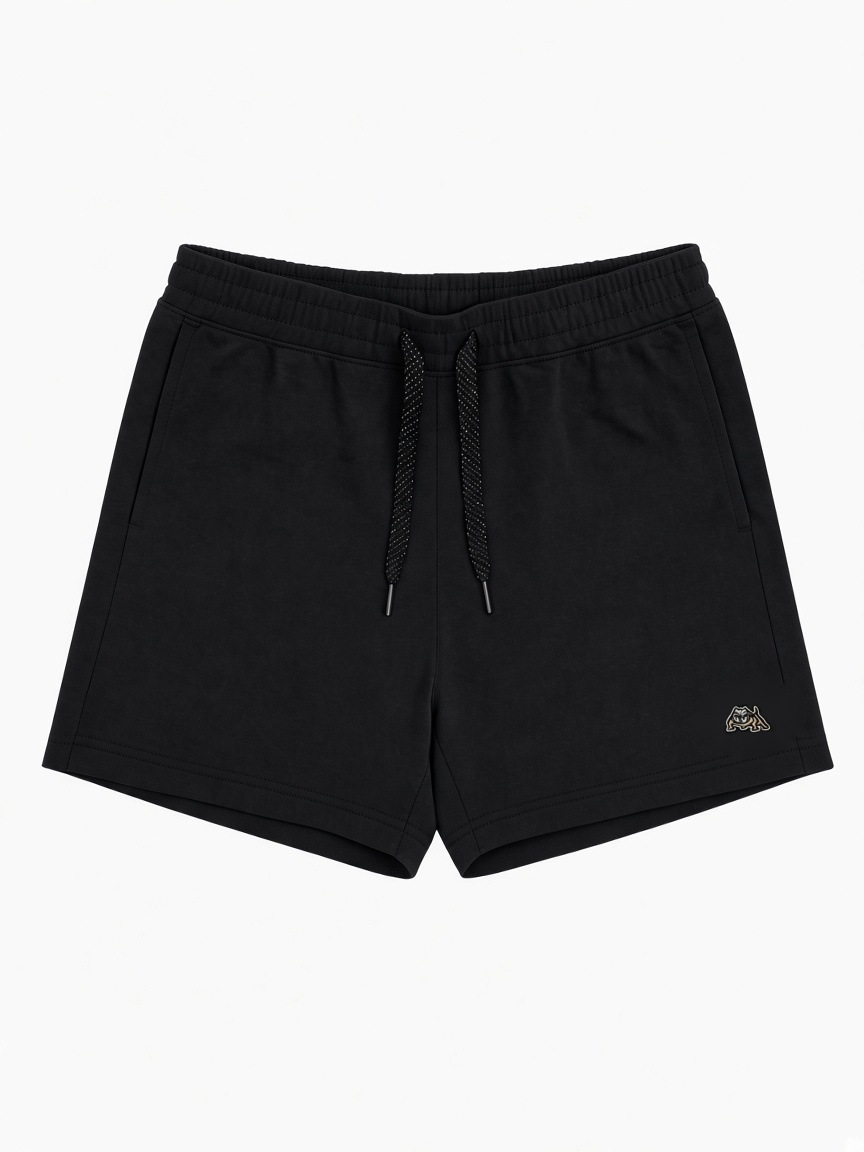
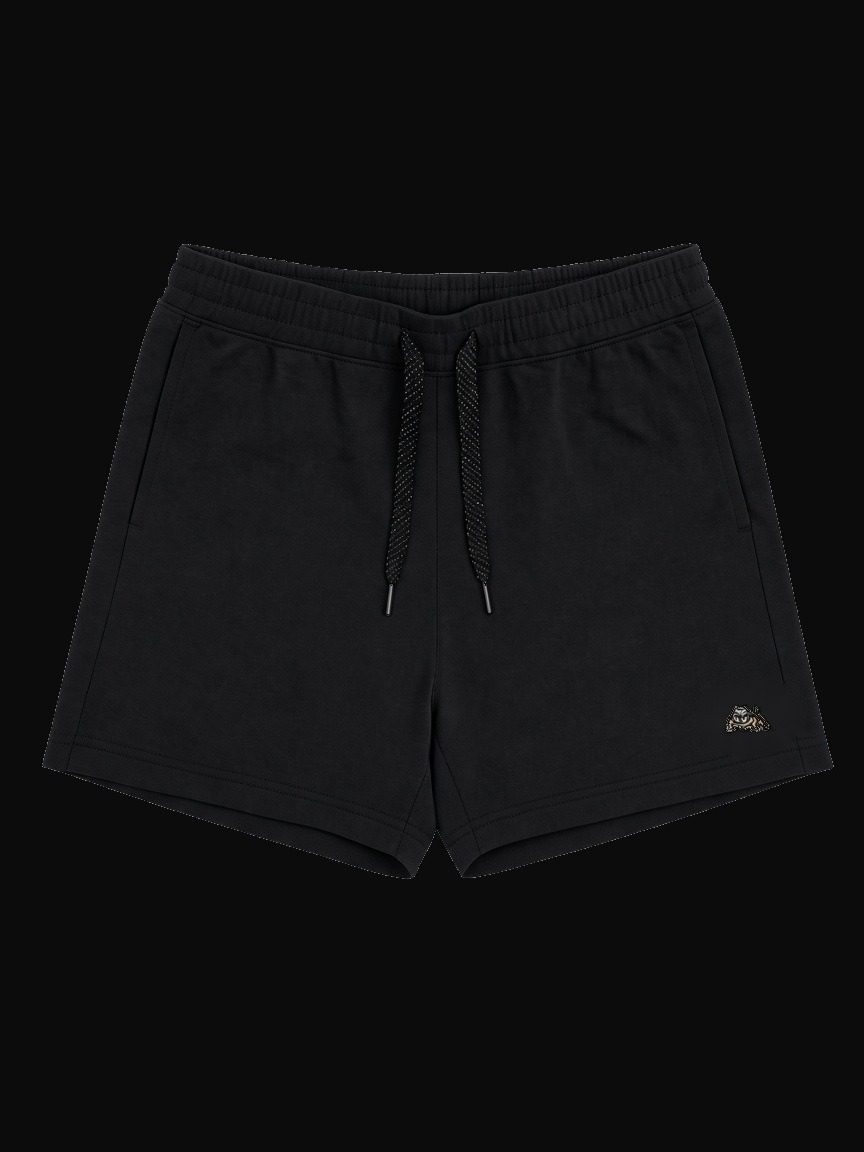
Remove cream photo mats from catalog frames and studio shots.
Darken --photo-well and drop media padding so contain letterboxing is black, not cream; replace white studio backgrounds on flats/mocks with site black and cache-bust assets.

diff --git a/collections.html b/collections.html
@@ -20,8 +20,8 @@
   <meta name="twitter:image" content="https://jimmythegod100.github.io/bvlly/images/og.jpg">
   <link rel="canonical" href="https://jimmythegod100.github.io/bvlly/collections.html">
   <link rel="icon" href="favicon.svg">
-  <link rel="stylesheet" href="css/brand.css?v=20260922r">
-  <link rel="stylesheet" href="css/main.css?v=20260922r">
+  <link rel="stylesheet" href="css/brand.css?v=20260922s">
+  <link rel="stylesheet" href="css/main.css?v=20260922s">
 </head>
 <body data-page="collections">
   <header class="site-header" data-site-header></header>
@@ -43,8 +43,8 @@
 
   <footer class="site-footer" data-site-footer></footer>
 
-  <script src="js/site-config.js?v=20260922r"></script>
-  <script src="js/catalog.js?v=20260922r"></script>
-  <script src="js/layout.js?v=20260922r"></script>
+  <script src="js/site-config.js?v=20260922s"></script>
+  <script src="js/catalog.js?v=20260922s"></script>
+  <script src="js/layout.js?v=20260922s"></script>
 </body>
 </html>

diff --git a/contact.html b/contact.html
@@ -20,8 +20,8 @@
   <meta name="twitter:image" content="https://jimmythegod100.github.io/bvlly/images/og.jpg">
   <link rel="canonical" href="https://jimmythegod100.github.io/bvlly/contact.html">
   <link rel="icon" href="favicon.svg">
-  <link rel="stylesheet" href="css/brand.css?v=20260922r">
-  <link rel="stylesheet" href="css/main.css?v=20260922r">
+  <link rel="stylesheet" href="css/brand.css?v=20260922s">
+  <link rel="stylesheet" href="css/main.css?v=20260922s">
 </head>
 <body data-page="contact">
   <header class="site-header" data-site-header></header>
@@ -79,8 +79,8 @@
 
   <footer class="site-footer" data-site-footer></footer>
 
-  <script src="js/site-config.js?v=20260922r"></script>
-  <script src="js/catalog.js?v=20260922r"></script>
-  <script src="js/layout.js?v=20260922r"></script>
+  <script src="js/site-config.js?v=20260922s"></script>
+  <script src="js/catalog.js?v=20260922s"></script>
+  <script src="js/layout.js?v=20260922s"></script>
 </body>
 </html>

diff --git a/privacy.html b/privacy.html
@@ -20,8 +20,8 @@
   <meta name="twitter:image" content="https://jimmythegod100.github.io/bvlly/images/og.jpg">
   <link rel="canonical" href="https://jimmythegod100.github.io/bvlly/privacy.html">
   <link rel="icon" href="favicon.svg">
-  <link rel="stylesheet" href="css/brand.css?v=20260922r">
-  <link rel="stylesheet" href="css/main.css?v=20260922r">
+  <link rel="stylesheet" href="css/brand.css?v=20260922s">
+  <link rel="stylesheet" href="css/main.css?v=20260922s">
 </head>
 <body data-page="privacy">
   <header class="site-header" data-site-header></header>
@@ -41,8 +41,8 @@
 
   <footer class="site-footer" data-site-footer></footer>
 
-  <script src="js/site-config.js?v=20260922r"></script>
-  <script src="js/catalog.js?v=20260922r"></script>
-  <script src="js/layout.js?v=20260922r"></script>
+  <script src="js/site-config.js?v=20260922s"></script>
+  <script src="js/catalog.js?v=20260922s"></script>
+  <script src="js/layout.js?v=20260922s"></script>
 </body>
 </html>

diff --git a/product.html b/product.html
@@ -20,8 +20,8 @@
   <meta name="twitter:image" content="https://jimmythegod100.github.io/bvlly/images/og.jpg">
   <link rel="canonical" href="https://jimmythegod100.github.io/bvlly/product.html">
   <link rel="icon" href="favicon.svg">
-  <link rel="stylesheet" href="css/brand.css?v=20260922r">
-  <link rel="stylesheet" href="css/main.css?v=20260922r">
+  <link rel="stylesheet" href="css/brand.css?v=20260922s">
+  <link rel="stylesheet" href="css/main.css?v=20260922s">
 </head>
 <body data-page="product">
   <header class="site-header" data-site-header></header>
@@ -34,8 +34,8 @@
 
   <footer class="site-footer" data-site-footer></footer>
 
-  <script src="js/site-config.js?v=20260922r"></script>
-  <script src="js/catalog.js?v=20260922r"></script>
-  <script src="js/layout.js?v=20260922r"></script>
+  <script src="js/site-config.js?v=20260922s"></script>
+  <script src="js/catalog.js?v=20260922s"></script>
+  <script src="js/layout.js?v=20260922s"></script>
 </body>
 </html>

diff --git a/thanks.html b/thanks.html
@@ -20,8 +20,8 @@
   <meta name="twitter:image" content="https://jimmythegod100.github.io/bvlly/images/og.jpg">
   <link rel="canonical" href="https://jimmythegod100.github.io/bvlly/thanks.html">
   <link rel="icon" href="favicon.svg">
-  <link rel="stylesheet" href="css/brand.css?v=20260922r">
-  <link rel="stylesheet" href="css/main.css?v=20260922r">
+  <link rel="stylesheet" href="css/brand.css?v=20260922s">
+  <link rel="stylesheet" href="css/main.css?v=20260922s">
 </head>
 <body data-page="thanks">
   <header class="site-header" data-site-header></header>
@@ -36,8 +36,8 @@
 
   <footer class="site-footer" data-site-footer></footer>
 
-  <script src="js/site-config.js?v=20260922r"></script>
-  <script src="js/catalog.js?v=20260922r"></script>
-  <script src="js/layout.js?v=20260922r"></script>
+  <script src="js/site-config.js?v=20260922s"></script>
+  <script src="js/catalog.js?v=20260922s"></script>
+  <script src="js/layout.js?v=20260922s"></script>
 </body>
 </html>

diff --git a/about.html b/about.html
@@ -20,8 +20,8 @@
   <meta name="twitter:image" content="https://jimmythegod100.github.io/bvlly/images/og.jpg">
   <link rel="canonical" href="https://jimmythegod100.github.io/bvlly/about.html">
   <link rel="icon" href="favicon.svg">
-  <link rel="stylesheet" href="css/brand.css?v=20260922r">
-  <link rel="stylesheet" href="css/main.css?v=20260922r">
+  <link rel="stylesheet" href="css/brand.css?v=20260922s">
+  <link rel="stylesheet" href="css/main.css?v=20260922s">
 </head>
 <body data-page="about">
   <header class="site-header" data-site-header></header>
@@ -41,8 +41,8 @@
 
   <footer class="site-footer" data-site-footer></footer>
 
-  <script src="js/site-config.js?v=20260922r"></script>
-  <script src="js/catalog.js?v=20260922r"></script>
-  <script src="js/layout.js?v=20260922r"></script>
+  <script src="js/site-config.js?v=20260922s"></script>
+  <script src="js/catalog.js?v=20260922s"></script>
+  <script src="js/layout.js?v=20260922s"></script>
 </body>
 </html>

diff --git a/shop.html b/shop.html
@@ -20,8 +20,8 @@
   <meta name="twitter:image" content="https://jimmythegod100.github.io/bvlly/images/og.jpg">
   <link rel="canonical" href="https://jimmythegod100.github.io/bvlly/shop.html">
   <link rel="icon" href="favicon.svg">
-  <link rel="stylesheet" href="css/brand.css?v=20260922r">
-  <link rel="stylesheet" href="css/main.css?v=20260922r">
+  <link rel="stylesheet" href="css/brand.css?v=20260922s">
+  <link rel="stylesheet" href="css/main.css?v=20260922s">
 </head>
 <body data-page="shop">
   <header class="site-header" data-site-header></header>
@@ -44,8 +44,8 @@
 
   <footer class="site-footer" data-site-footer></footer>
 
-  <script src="js/site-config.js?v=20260922r"></script>
-  <script src="js/catalog.js?v=20260922r"></script>
-  <script src="js/layout.js?v=20260922r"></script>
+  <script src="js/site-config.js?v=20260922s"></script>
+  <script src="js/catalog.js?v=20260922s"></script>
+  <script src="js/layout.js?v=20260922s"></script>
 </body>
 </html>

diff --git a/404.html b/404.html
@@ -20,8 +20,8 @@
   <meta name="twitter:image" content="https://jimmythegod100.github.io/bvlly/images/og.jpg">
   <link rel="canonical" href="https://jimmythegod100.github.io/bvlly/404.html">
   <link rel="icon" href="favicon.svg">
-  <link rel="stylesheet" href="css/brand.css?v=20260922r">
-  <link rel="stylesheet" href="css/main.css?v=20260922r">
+  <link rel="stylesheet" href="css/brand.css?v=20260922s">
+  <link rel="stylesheet" href="css/main.css?v=20260922s">
 </head>
 <body data-page="404">
   <header class="site-header" data-site-header></header>
@@ -38,8 +38,8 @@
 
   <footer class="site-footer" data-site-footer></footer>
 
-  <script src="js/site-config.js?v=20260922r"></script>
-  <script src="js/catalog.js?v=20260922r"></script>
-  <script src="js/layout.js?v=20260922r"></script>
+  <script src="js/site-config.js?v=20260922s"></script>
+  <script src="js/catalog.js?v=20260922s"></script>
+  <script src="js/layout.js?v=20260922s"></script>
 </body>
 </html>

diff --git a/index.html b/index.html
@@ -23,8 +23,8 @@
   <meta name="twitter:image" content="https://jimmythegod100.github.io/bvlly/images/og.jpg">
   <link rel="canonical" href="https://jimmythegod100.github.io/bvlly/">
   <link rel="icon" href="favicon.svg">
-  <link rel="stylesheet" href="css/brand.css?v=20260922r">
-  <link rel="stylesheet" href="css/main.css?v=20260922r">
+  <link rel="stylesheet" href="css/brand.css?v=20260922s">
+  <link rel="stylesheet" href="css/main.css?v=20260922s">
 </head>
 <body data-page="home">
   <header class="site-header" data-site-header></header>
@@ -87,8 +87,8 @@
 
   <footer class="site-footer" data-site-footer></footer>
 
-  <script src="js/site-config.js?v=20260922r"></script>
-  <script src="js/catalog.js?v=20260922r"></script>
-  <script src="js/layout.js?v=20260922r"></script>
+  <script src="js/site-config.js?v=20260922s"></script>
+  <script src="js/catalog.js?v=20260922s"></script>
+  <script src="js/layout.js?v=20260922s"></script>
 </body>
 </html>

diff --git a/css/main.css b/css/main.css
@@ -434,7 +434,7 @@ a:hover { text-decoration: underline; text-underline-offset: 0.18em; }
   /* Prefer full figure in frame — no cropped crowns/heads */
   object-fit: contain;
   object-position: center center;
-  padding: 0.55rem;
+  padding: 0;
   box-sizing: border-box;
   opacity: 0;
   transition: opacity 0.25s ease;

diff --git a/js/site-config.js b/js/site-config.js
@@ -7,7 +7,7 @@
  */
 (function () {
   // Bump when lookbook JPGs change so browsers skip stale CDN/disk cache.
-  const ASSET_V = '20260922r';
+  const ASSET_V = '20260922s';
 
   const COLORWAYS = [
     { name: 'Pink', slug: 'pink', hex: '#e5b3c5' },

diff --git a/css/brand.css b/css/brand.css
@@ -16,7 +16,7 @@
   --text: var(--brand-dark);
   --text-muted: #b0a89c;
   --border: #2a2a2a;
-  --photo-well: #ece8e1;
+  --photo-well: #0c0c0c;
   --radius: 0;
   --shadow: none;
   --max-width: 1220px;
